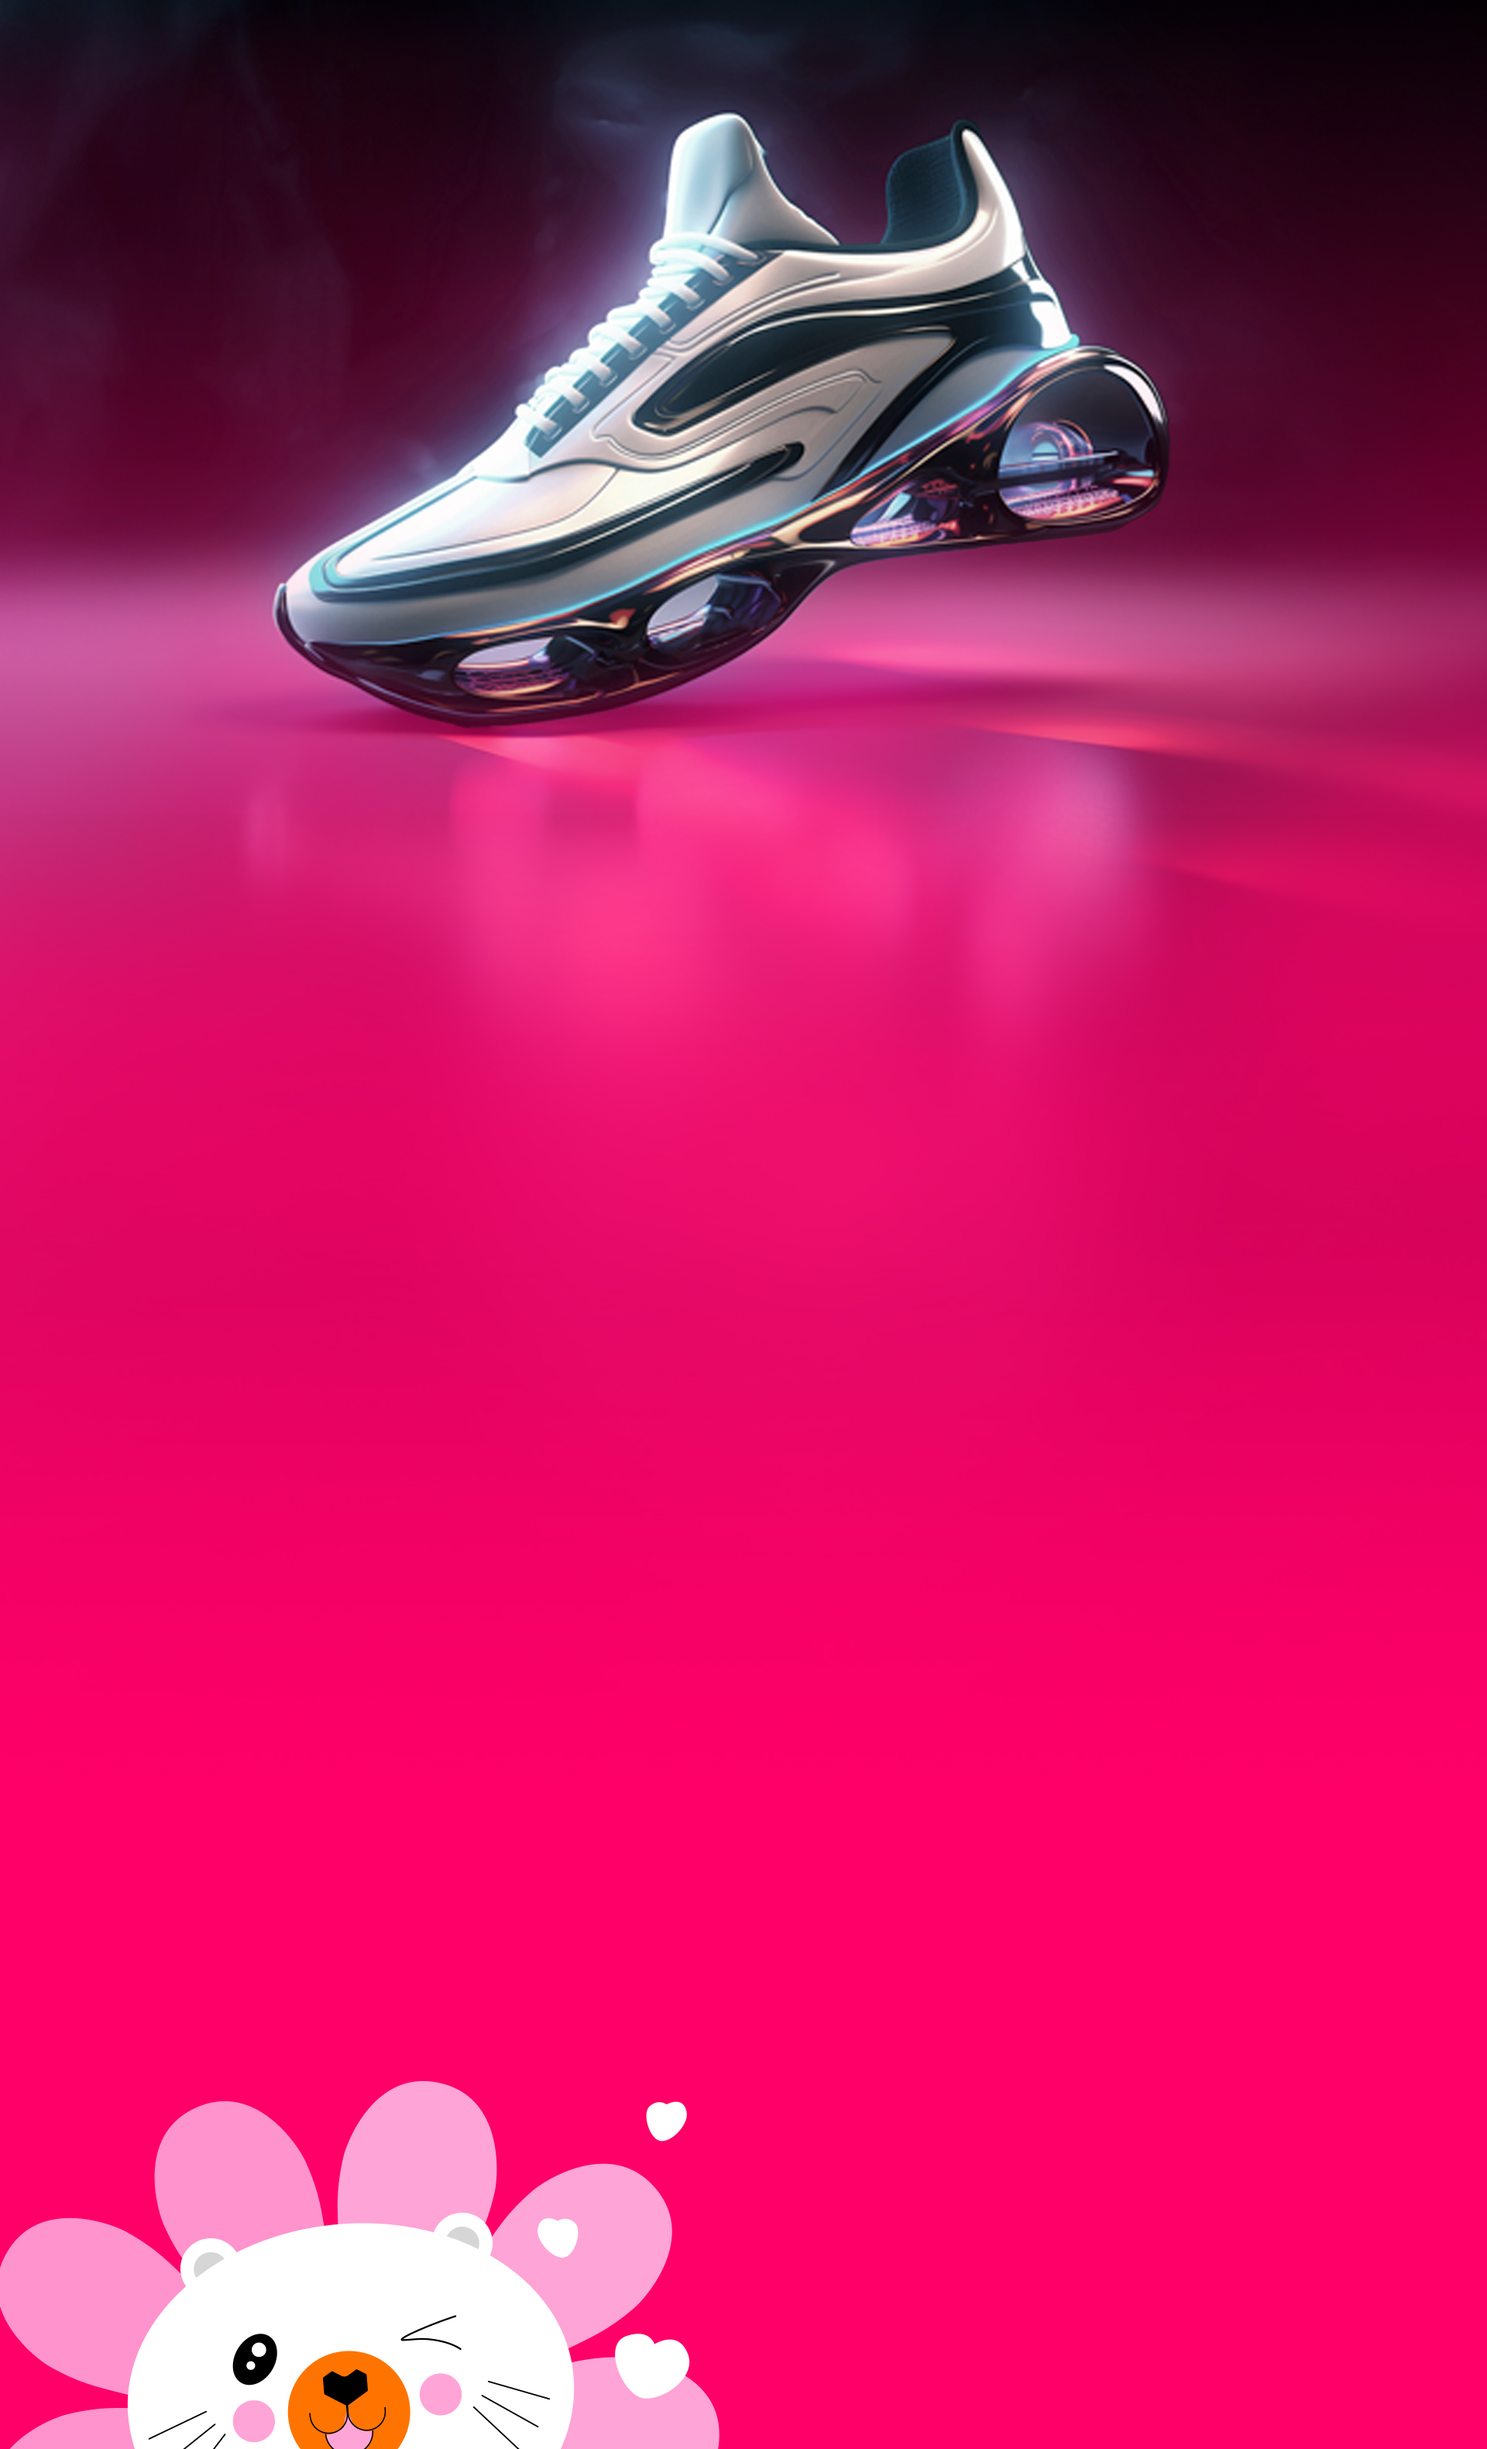
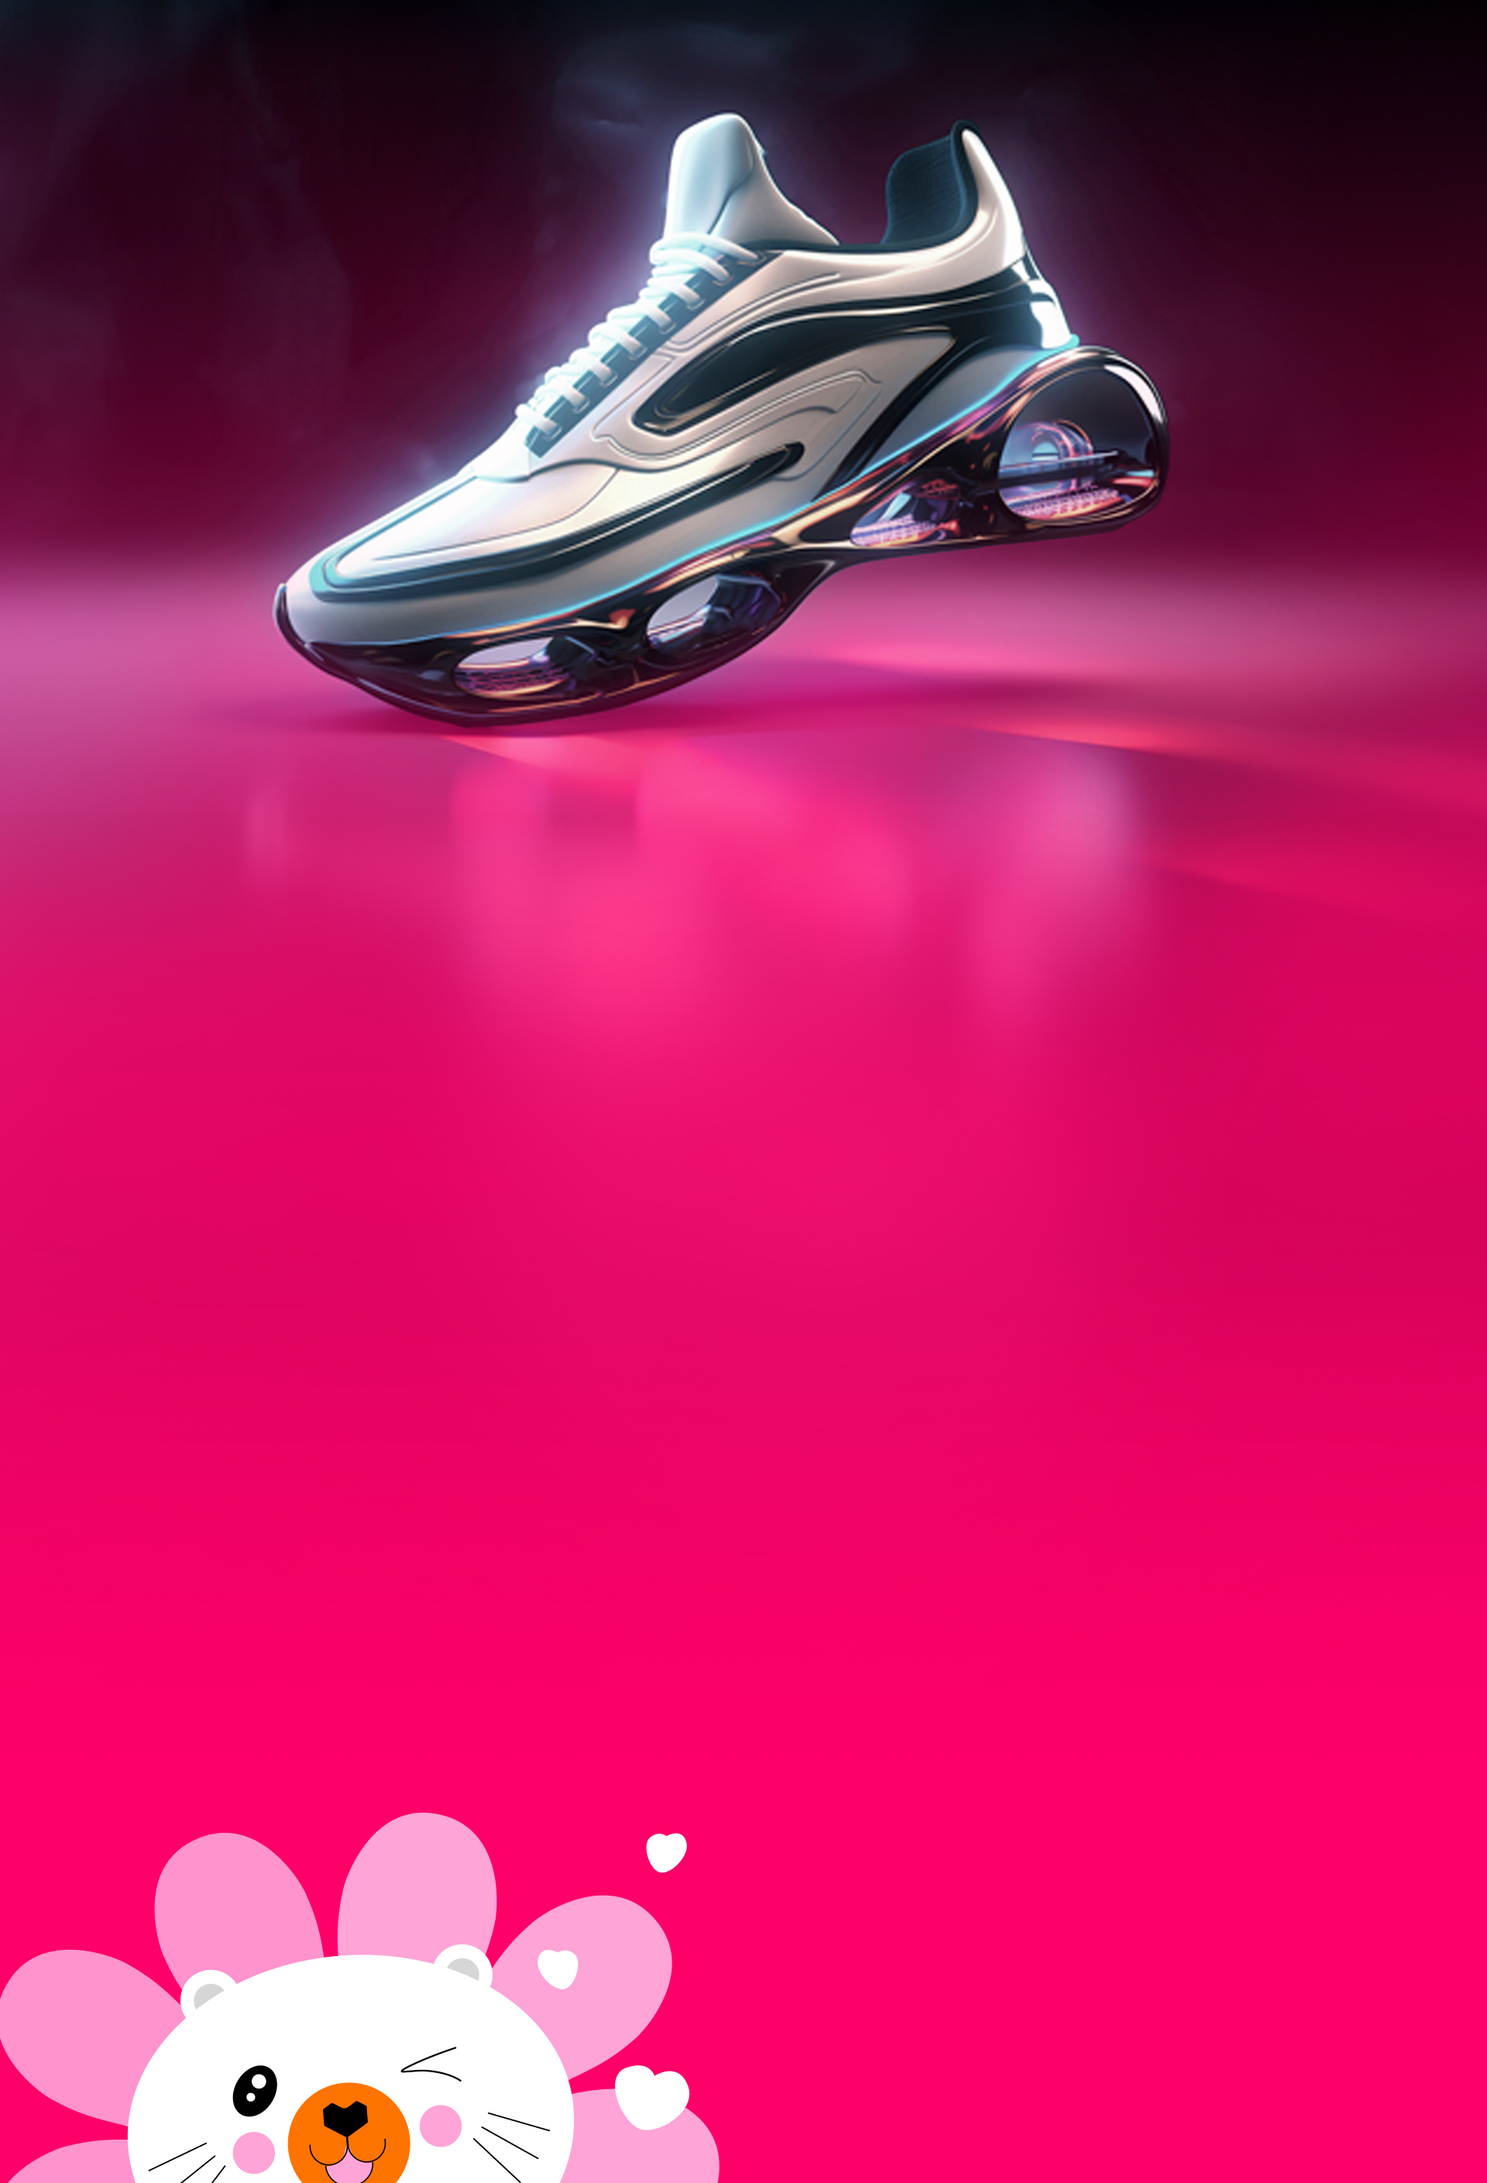
update css

diff --git a/css/style.css b/css/style.css
@@ -206,17 +206,20 @@ input[type=submit] {
   }
   .img-2{
     width: 60%;
-    top: 32%;
+    top: 29%;
   }
   .img-text-1{
     width: 50%;
-    top: 74%;
+    top: 67%;
+  }
+  .md-slider .owl-theme .owl-nav.disabled+.owl-dots{
+    margin-top: 1%;
   }
   .md-slider{
-    top: 53%;
+    top: 49%;
   }
   .md-form{
-    top: 78%;
+    top: 72%;
   }
   .md-form input[type='text']{
     width: 55%;
